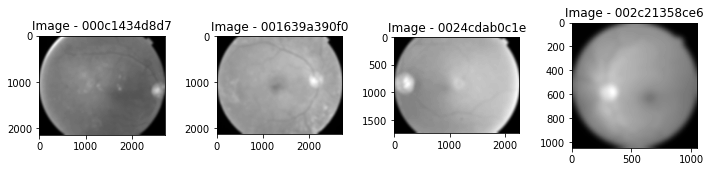
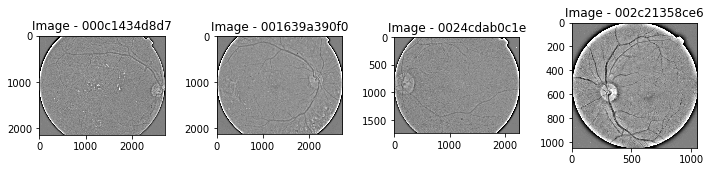
added blurred images; removed unnecessary images

diff --git a/templates/image.html b/templates/image.html
@@ -178,10 +178,11 @@
                     </p>
                 </div>
                 <div class="col-lg-12 text-center">
-                    <img src="../static/images/blurred_images.png" alt="">
-                    <br>
+                    <img src="../static/images/blurred.png" alt="">
                 </div>
-
+                <div class="col-lg-12 text-center">
+                    <img src="../static/images/blurred_resize.png" alt="">
+                </div>
             </div>
             <br>
         </div>
@@ -202,7 +203,6 @@
                     <div class="container-fluid">
                         <div class="row">
                             <div class="col-lg-12 text-left">
-                                <br><br><br>
                                 <p>Gaussian distribution (also known as normal distribution) is a bell-shaped curve, and
                                     it is assumed that during any measurement values will follow a normal distribution
                                     with an equal number of measurements above and below the mean value.</p>
